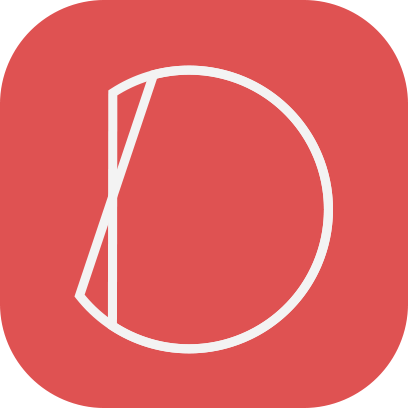
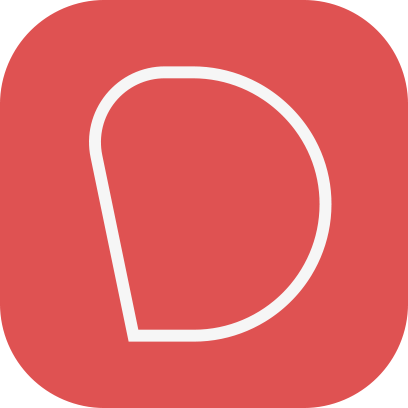
邊欄

diff --git a/index.html b/index.html
@@ -29,7 +29,7 @@
   <body>
 
     <section class="bdy" style="overflow:hidden;">
-      <img src="img/logo_white.png" class="logo">
+      <img src="img/ftrlogo.png" class="logo">
       <img src="img/scroll.png" class="scroll">
       <img src="img/bg.jpg" class="bg">
       <div class="gallery-btn">
@@ -126,37 +126,26 @@
       <img class="lazy" data-original="img/im8.jpg" />
     </div>
     <div class="info">
-      <div class="info-1">
-        <span>領取方式</span>
+        <span class="way">領取方式</span>
         <span >1.安裝APP:fnDorm</span>
-		 <span class="info-sub">（目前尚未開放下載）</span>
-        
         <span>2.當有包裹時會收到推播通知</span>
-       
-        <span>3.至收發室出示fnDorm內的領取碼</span>
-        <span>未安裝App如何收領</span>
-      </div>
-      <div class="info-2">
-        <span>未安裝App如何收領</span>
-        <span>(*無法在第一時間得知有無包裹)</span>
-        <span>1. 主動使用網頁查詢</span>
-		  <span>2. 被動等待eamil通知</span>
-       
-        <span class="info-sub">(攜帶手機至收發室，出示領取碼)</span>
-      </div>
+        <span>3.至收發室出示fnDorm內的包裹碼（不用簽名）</span>
+        <span  class="way">未安裝App如何收領</span>
+        <span>1.至佈告欄查看列印單</span>
+		<span>2.查看NTU信箱</span>
     </div>
     <div class="qa">
 		<span class="qaheadttle">熱心問答</span>
 		<span class="qahead">同學好，這個流程裡我們考量的角色包含：工作人員（阿姨、保全、輔導員、工讀生）及住宿學生的立場，並且以長期為目標來改善，不管是效率、操作的能力、便利性，都在我們的設計考量中，在這裡跟大家分享熱心同學的提問與我們的回覆。在現有的資源下要做到改善與接受必須盡很大的努力與勇氣，希望我們一起嘗試突破看看！  - 資管所碩二 Jerry</span>
       <span class="qa-q">Q: 當包裹上名字不好辨認、使用英文名字</span>
-      <span>系統判斷身份的順序為：1. 寢室號碼+姓名 2. 手機號碼(若以上兩者皆無法辨認，將發推播通知全寢室室友)</span>
+      <span>系統判斷身份的順序為：1. 寢室號碼+姓名 2. 手機號碼(若以上兩者皆無法辨認，將退回包裹)</span>
       
       <span class="qa-q">Q: 包裹透過電腦操作與直接在公布欄抄寫的效率問題</span>
-      <span>我們希望讓操作流程簡化、迅速，工作人員只需透過滑鼠點擊、輸入簡單數字就可以使用</span>
+      <span>我們希望讓操作流程簡化、迅速，工作人員只需透過滑鼠點擊、輸入簡單數字就可以使用，阿姨會定時列印黏貼於佈告欄</span>
       <span class="qa-q">Q: 包裹抵達收發室時，工作人員尚未建檔，可否領取</span>
       <span>不可以。為了保護學生及工作人員權益，包裹一律需登錄到系統才能領取，以避免日後爭議產生。</span>
       <span class="qa-note">*此外，每週一三五會檢查未領的包裹，寄信到有未領包裹同學的NTU信箱</span>
-      <span class="qa-timestamp">last update:  2016/10/12 16:00</span>
+      <span class="qa-timestamp">last update:  2016/10/31 16:00</span>
     </div>
     <script>
 (function(i,s,o,g,r,a,m){i['GoogleAnalyticsObject']=r;i[r]=i[r]||function(){

diff --git a/info.css b/info.css
@@ -49,50 +49,27 @@
   overflow: auto;
   transition: transform 300ms cubic-bezier(0.4, 0, 1, 1);
   transform: translateX(100%);
+  display: flex;
+  flex-direction: column;
+  align-items: flex-start;
+  height: 100%;
+  padding: 45px 25px;
+  box-sizing: border-box;
+  line-height: 1.9;
+  
 }
 
 .info.show {
   transform: translateX(0);
   z-index: 999;
+	
 }
 
-.info .info-1, .info .info-2 {
-  display: flex;
-  flex-direction: column;
-  align-items: left;
-  position: relative;
-  height: 100%;
-  padding: 45px 25px;
-  box-sizing: border-box;
-  line-height: 1.9;
-}
-
-.info .info-1 span:first-child {
+.info .way {
   font-size: 1.2rem;
-  margin: 25px 0 60px;
+  margin: 60px 0 20px;
 }
 
-.info .info-1 span:last-child {
-  position: absolute;
-  bottom: 20px;
-  left: 10px;
-  text-decoration: underline;
-  color: #292929;
-  cursor: pointer;
-}
-
-.info .info-2 span:first-child {
-  font-size: 1.2rem;
-  margin-top: 25px;
-  margin-bottom: 10px;
-  color: #292929;
-}
-
-.info .info-2 span:nth-child(2) {
-  font-size: 0.9rem;
-  color: #db3c3c;
-  margin-bottom: 60px;
-}
 
 .info .arrow-down {
   display: inline-block;
@@ -126,4 +103,8 @@
 
 .info-sub {
 	opacity: .6;
+}
+
+.way1{
+	
 }
